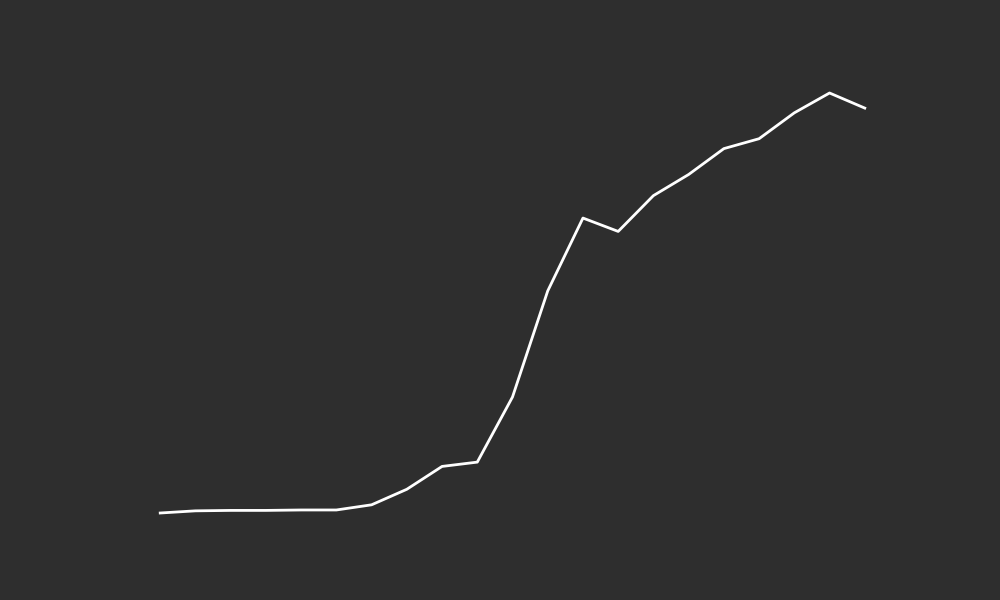
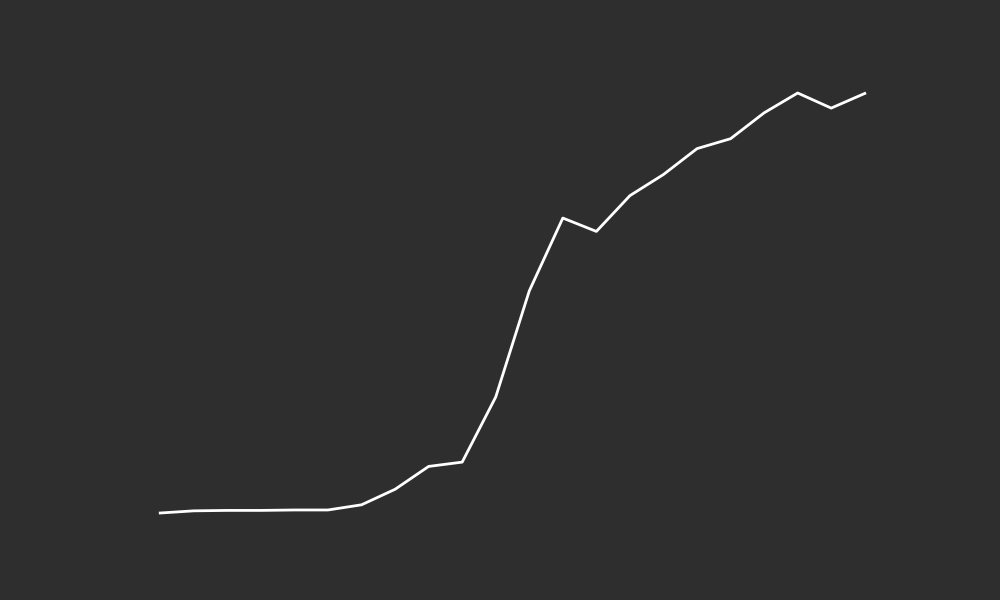
Update delegators count and plot

diff --git a/README.md b/README.md
@@ -1,11 +1,11 @@
-# Delegators Count (APT $8.24)<br><br>
-Total Delegators: 47976<br>
-Total APT Delegated: 322831490<br><br>
+# Delegators Count (APT $8.18)<br><br>
+Total Delegators: 48010<br>
+Total APT Delegated: 322846465<br><br>
 ![Delegators Plot](delegators_plot.png)<br><br>
 **OP received for the third airdrop on 18.09.2023 (price of OP was $1.368):**<br>
 Addresses received drop: 31870<br>
 Average amount received: 609.08 ($833.22)<br>
 Median amount received: 238.49 ($326.26)<br>
 Total drop distribution: 19411313 ($26554676.18)<br><br>
-If Aptos Foundation spent the same amount for the delegation airdrop as Optimism Foundation team ($26554676.18),they will spend 3222654.88 APT for this airdrop.<br>
-With this logic, every APT delegate will receive on average: 67.17 APT ($553.50)<br>
+If Aptos Foundation spent the same amount for the delegation airdrop as Optimism Foundation team ($26554676.18),they will spend 3246292.93 APT for this airdrop.<br>
+With this logic, every APT delegate will receive on average: 67.62 APT ($553.11)<br>
